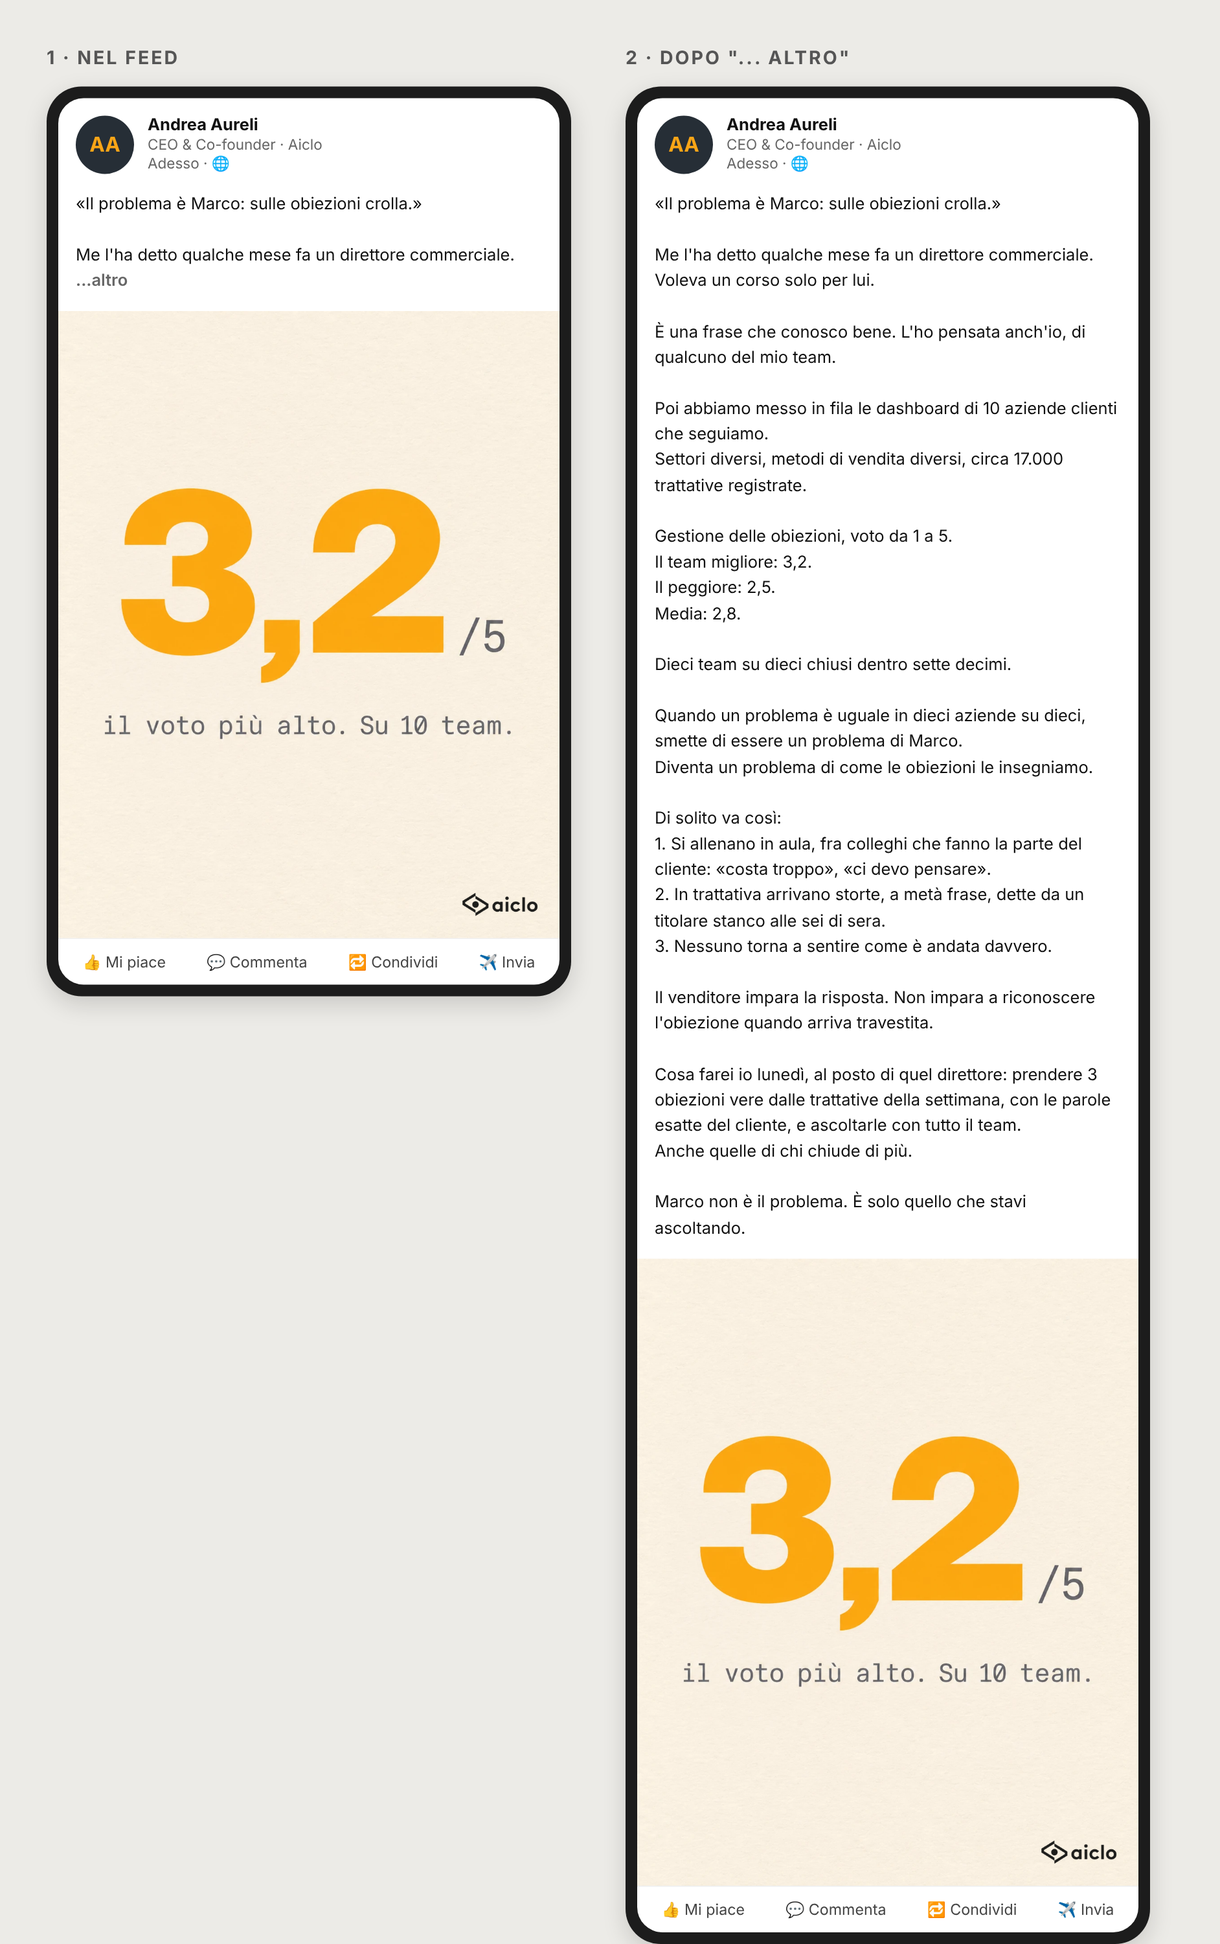
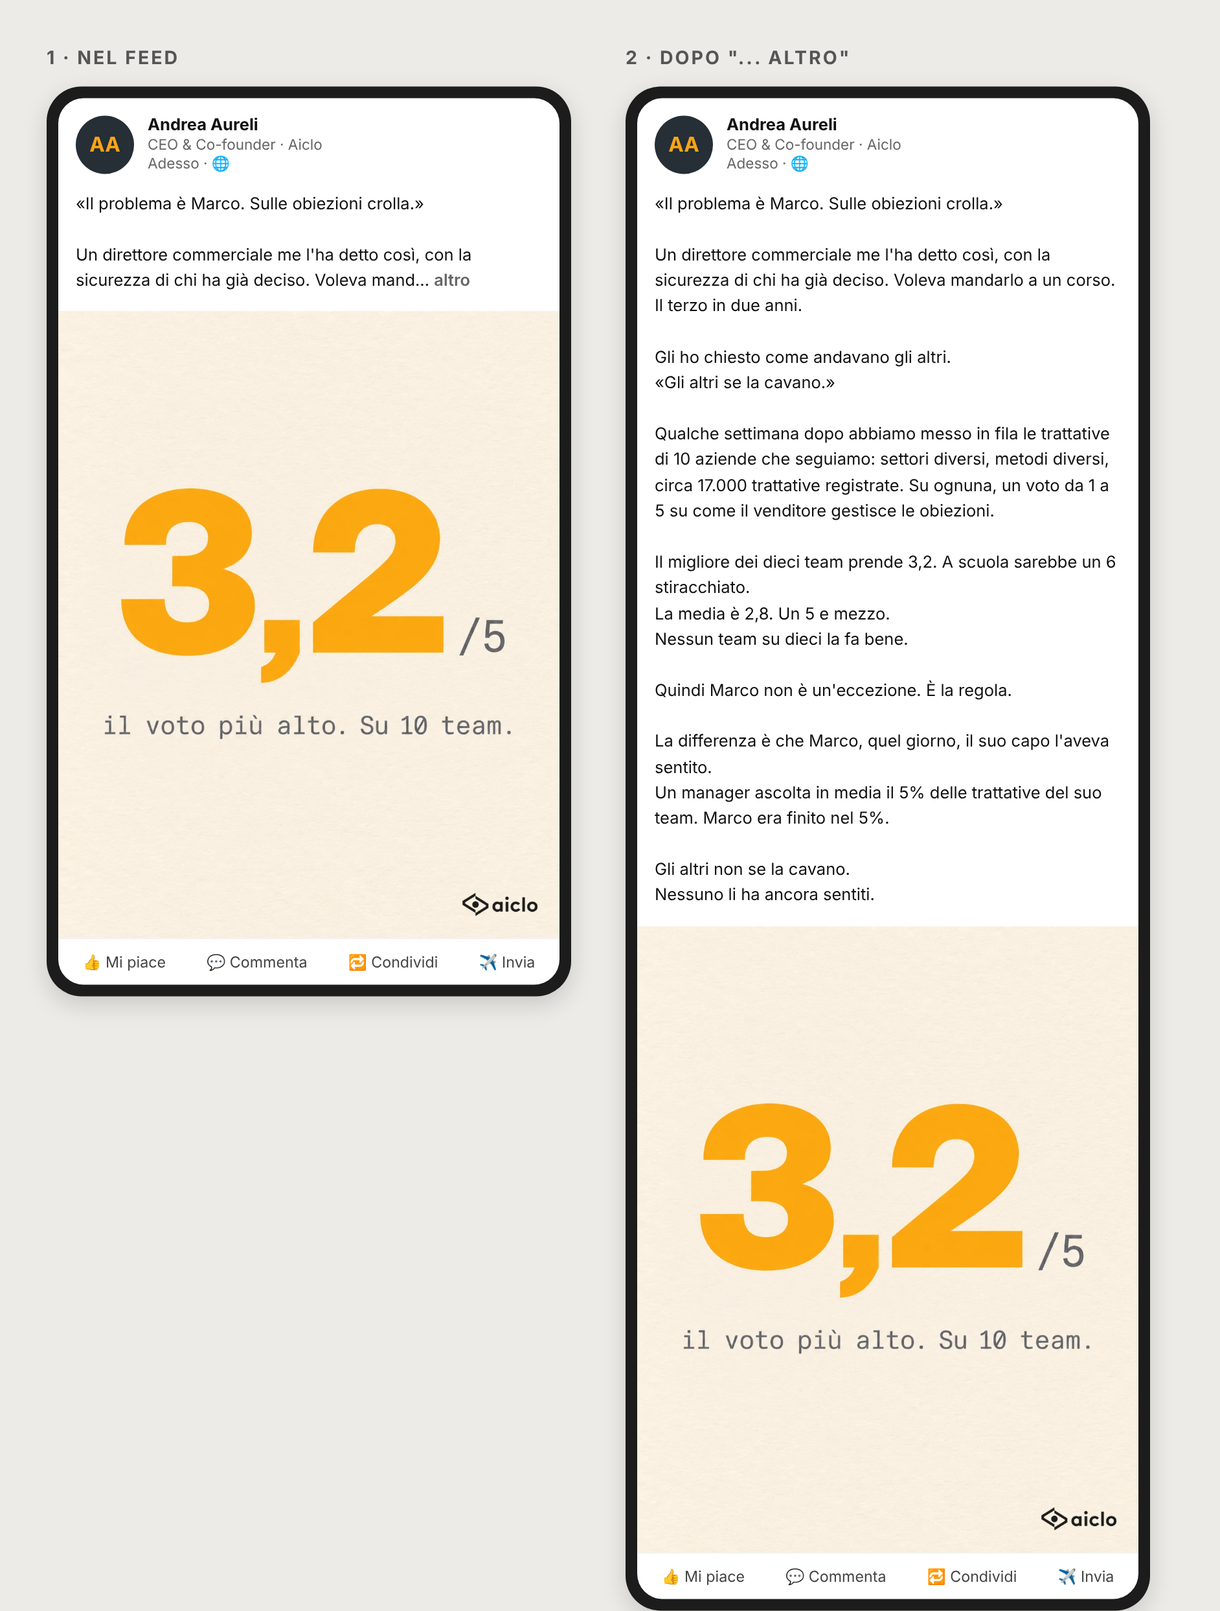
Nuovo stile di copy (guida 09) e post di Andrea riscritto
Aggiunta guide/09-stile-copy.md: anello aperto, scene con battute,
numeri tradotti, 120-200 parole, niente morale spiegata, ritmo alternato.
Allineate CLAUDE.md, 02, 05 e 08. Post di Andrea in versione 2 con anteprima.

Claude-Session: https://claude.ai/code/session_01BvwXaiV5KwnJCQtWAkwjF6

diff --git a/post/andrea-aureli/2026-11-09-obiezioni-3-2.md b/post/andrea-aureli/2026-11-09-obiezioni-3-2.md
@@ -1,49 +1,42 @@
 # Il problema è Marco: obiezioni, 10 team su 10 sotto il 3,2
 
-**Autore** — Andrea Aureli · **Brief** — Target: Manager · Leva: Soldi buttati in formazione (+ "Non sai perché") · Struttura: S1 Ribaltamento · Obiettivo: commenti
-**Fonti dati** — `dati/insight-trattative.md` riga 8 (approvata: 10 aziende clienti su 10 fra 2,5 e 3,2 sulla gestione delle obiezioni, media 2,8, circa 17.000 trattative). Il direttore commerciale e "Marco": **storia costruita**.
+**Autore** — Andrea Aureli · **Brief** — Target: Manager · Leva: "Non sai perché" (il punto cieco del 95%) · Struttura: S1 Ribaltamento · Obiettivo: commenti
+**Fonti dati** — `dati/insight-trattative.md` riga 8 (approvata: 10 aziende clienti su 10 fra 2,5 e 3,2 sulla gestione delle obiezioni, media 2,8, circa 17.000 trattative) e riga 1 (claim pubblico: un manager ascolta il 5% delle trattative). Il direttore commerciale, "Marco" e il corso: **storia costruita**. La traduzione in pagella (3,2/5 = 6,4/10; 2,8/5 = 5,6/10) è un calcolo sui dati approvati.
 
 > Scelte di calendario: è il primo post di Andrea, quindi niente da non ripetere. Target Manager perché l'ultimo post uscito (Simone, oggi) era per i venditori. Tema diverso da quello di Simone (implicazioni, righe 3, 4 e 9): qui si usa la riga 8, mai usata.
+>
+> **Versione 2**, riscritta con `guide/09-stile-copy.md`. La versione 1 (240 parole, con lista e "cosa fare lunedì") è nella cronologia git.
 
 ## Hook alternativi
 1. **Numero che fa male:** 10 aziende, 10 metodi diversi. Sulle obiezioni nessuna supera il 3,2.
-2. **Il caso che smentisce:** «Il problema è Marco: sulle obiezioni crolla.»
+2. **Il caso che smentisce:** «Il problema è Marco. Sulle obiezioni crolla.»
 3. **Criterio:** Quando un manager mi chiede un corso sulle obiezioni, faccio una domanda sola.
 
-Scelto il **n. 2**: è una frase che ogni manager ha detto o pensato, quindi ci si riconosce subito. Il lettore pensa "anch'io ho un Marco" e apre il post. Il numero arriva dopo, come prova che ribalta la frase.
+Scelto il **n. 2**: è una frase che ogni manager ha detto o pensato, quindi ci si riconosce subito.
+
+**Anello aperto:** la domanda è "ma è davvero colpa di Marco?". Si chiude solo nelle ultime due righe: Marco è solo quello che il capo ha sentito, gli altri nessuno li ha sentiti.
 
 ## Post
-«Il problema è Marco: sulle obiezioni crolla.»
+«Il problema è Marco. Sulle obiezioni crolla.»
 
-Me l'ha detto qualche mese fa un direttore commerciale.
-Voleva un corso solo per lui.
+Un direttore commerciale me l'ha detto così, con la sicurezza di chi ha già deciso. Voleva mandarlo a un corso. Il terzo in due anni.
 
-È una frase che conosco bene. L'ho pensata anch'io, di qualcuno del mio team.
+Gli ho chiesto come andavano gli altri.
+«Gli altri se la cavano.»
 
-Poi abbiamo messo in fila le dashboard di 10 aziende clienti che seguiamo.
-Settori diversi, metodi di vendita diversi, circa 17.000 trattative registrate.
+Qualche settimana dopo abbiamo messo in fila le trattative di 10 aziende che seguiamo: settori diversi, metodi diversi, circa 17.000 trattative registrate. Su ognuna, un voto da 1 a 5 su come il venditore gestisce le obiezioni.
 
-Gestione delle obiezioni, voto da 1 a 5.
-Il team migliore: 3,2.
-Il peggiore: 2,5.
-Media: 2,8.
+Il migliore dei dieci team prende 3,2. A scuola sarebbe un 6 stiracchiato.
+La media è 2,8. Un 5 e mezzo.
+Nessun team su dieci la fa bene.
 
-Dieci team su dieci chiusi dentro sette decimi.
+Quindi Marco non è un'eccezione. È la regola.
 
-Quando un problema è uguale in dieci aziende su dieci, smette di essere un problema di Marco.
-Diventa un problema di come le obiezioni le insegniamo.
+La differenza è che Marco, quel giorno, il suo capo l'aveva sentito.
+Un manager ascolta in media il 5% delle trattative del suo team. Marco era finito nel 5%.
 
-Di solito va così:
-1. Si allenano in aula, fra colleghi che fanno la parte del cliente: «costa troppo», «ci devo pensare».
-2. In trattativa arrivano storte, a metà frase, dette da un titolare stanco alle sei di sera.
-3. Nessuno torna a sentire come è andata davvero.
-
-Il venditore impara la risposta. Non impara a riconoscere l'obiezione quando arriva travestita.
-
-Cosa farei io lunedì, al posto di quel direttore: prendere 3 obiezioni vere dalle trattative della settimana, con le parole esatte del cliente, e ascoltarle con tutto il team.
-Anche quelle di chi chiude di più.
-
-Marco non è il problema. È solo quello che stavi ascoltando.
+Gli altri non se la cavano.
+Nessuno li ha ancora sentiti.
 
 ## Visual
 Tipo: numero gigante (Template H)
@@ -78,19 +71,21 @@ Note per la grafica:
 Manager: qual è l'obiezione che senti di più nelle trattative del tuo team? Scrivila con le parole esatte del cliente, non con quelle del manuale.
 
 ## Checklist
-**17/17**
-- ✅ Prima riga di 8 parole: una frase vera da manager, una scena che funziona da sola.
-- ✅ Una sola idea: le obiezioni sono un problema di come si insegnano, non di un venditore.
+**19/19**
+- ✅ Prima riga di 7 parole: una frase vera da manager, che funziona da sola.
+- ✅ Anello aperto ("è davvero colpa di Marco?") chiuso solo nelle ultime due righe.
+- ✅ Una sola idea: il problema che vedi è quello che senti; il resto è nel punto cieco.
 - ✅ Nemico: la credenza "è colpa di quel venditore, mandiamolo a un corso".
-- ✅ Numeri reali e approvati (riga 8): 10 su 10, 3,2, 2,5, 2,8, 17.000. Citati come "aziende clienti che seguiamo", senza nomi né settori.
-- ✅ Storia costruita (il direttore, Marco) anonima, verosimile e segnalata nelle Fonti dati.
-- ✅ Target manager chiaro dalla prima riga; leve: formazione che non arriva in trattativa, "non sai perché" (il 5% che si ascolta, richiamato in chiusura).
-- ✅ Circa 240 parole, paragrafi brevi, elenco numerato di 3 voci, zero emoji, nessuna parola vietata, nessun link.
-- ✅ Chiusura in una frase, citabile, che riprende l'apertura.
+- ✅ Numeri reali e approvati (righe 8 e 1), tradotti in pagella. Citati come "aziende che seguiamo", senza nomi né settori.
+- ✅ Storia costruita (il direttore, Marco, il corso) anonima, verosimile e segnalata nelle Fonti dati.
+- ✅ Target manager chiaro dalla prima riga; leva "Non sai perché".
+- ✅ Circa 165 parole, nessuna lista, nessuna morale spiegata, nessun "cosa fare lunedì".
+- ✅ Zero emoji, nessuna parola vietata, nessun trattino lungo, nessun link.
+- ✅ Chiusura in due righe brevi, citabile, che risponde all'apertura ("gli altri se la cavano").
 - ✅ Aiclo non nominato.
-- ✅ L'errore è condiviso dall'autore ("l'ho pensata anch'io", "come le insegniamo"); nessun attacco ai formatori o ai venditori. Due contrapposizioni ("Il venditore impara la risposta. Non impara…" e la chiusura).
-- ✅ Voce di Andrea: riflessiva, da imprenditore che ragiona sui numeri aggregati, diretta senza prediche.
+- ✅ Punge un'abitudine (dare la colpa a chi si è sentito), non una persona. Due contrapposizioni in tutto.
+- ✅ I 4 test del file `09`: nessun paragrafo si può togliere senza perdere un pezzo della storia.
+- ✅ Voce di Andrea: da imprenditore che ragiona sui numeri, diretto senza prediche.
 
 Da verificare con Andrea prima di pubblicare:
 - La scena del direttore commerciale è costruita: se ne ha una vera simile, meglio la sua.
-- "L'ho pensata anch'io, di qualcuno del mio team": va bene solo se è vero per lui (il gruppo gestisce 100+ venditori, è molto probabile). Se no, togliere la riga.

diff --git a/guide/09-stile-copy.md b/guide/09-stile-copy.md
@@ -1,0 +1,80 @@
+# 09 — Lo stile: post che si leggono fino in fondo
+
+> Questo file viene **prima** degli altri. Le strutture (file `02`) dicono cosa mettere nel post. Questo file dice come scriverlo perché qualcuno lo legga. Se una regola degli altri file rende il post più noioso, vince questo file.
+
+## Perché i primi post annoiavano
+L'abbiamo visto sul primo post di Andrea (versione 1, nella cronologia git di `post/andrea-aureli/2026-11-09-obiezioni-3-2.md`). Anche chi aveva tempo e interesse a metà mollava. Le cause:
+
+1. **Si vedeva lo scheletro.** "Di solito va così: 1, 2, 3", "Cosa farei io lunedì", la morale. Era una S1 compilata casella per casella, e il lettore riconosce il modulo prima ancora di leggerlo.
+2. **Spiegavamo la morale.** Il post arrivava alla conclusione e poi la spiegava ancora. Al lettore non restava niente da capire da solo, e quindi niente da commentare.
+3. **I numeri erano da report.** "Gestione delle obiezioni 2,8 su 5" non fa male a nessuno finché non diventa "un 5 e mezzo in pagella".
+4. **Il ritmo era da telegramma.** Ogni frase andava a capo ed erano tutte lunghe uguali. Dopo dieci righe diventa una cantilena.
+5. **C'era troppa roba.** Un caso, i dati, una spiegazione, una lista, un consiglio, una morale: sono sei pezzi per un'idea sola.
+6. **Era prudente.** Pensavamo tanto a non offendere nessuno che il post non pungeva più.
+
+## Le 7 regole
+
+### 1. Un anello aperto, chiuso solo alla fine
+La prima riga apre una domanda ("perché Marco?", "cosa c'è di male a farsi voler bene?"). L'ultima la chiude. Se la risposta arriva a metà, il lettore ha finito di leggere a metà.
+Prima di scrivere, rispondi a due domande: **qual è la domanda che apro? In quale riga la chiudo?**
+
+### 2. Scene, non concetti
+Mettici persone che parlano, con battute tra « ». Ci vuole almeno una battuta vera o verosimile, come la direbbe un direttore commerciale alle sei di sera. "Gli altri se la cavano" vale più di un paragrafo sulla formazione.
+
+### 3. Un numero, tradotto
+Bastano uno o due numeri, ma ognuno va **tradotto** in qualcosa che si sente: un voto a scuola, euro, ore, "uno su tre", "il migliore dei dieci".
+- ❌ "Gestione delle obiezioni: 2,8 su 5."
+- ✅ "La media è 2,8 su 5. In pagella sarebbe un 5 e mezzo."
+
+### 4. Corto: 120-200 parole
+Scrivi la prima versione, poi **togli il 30%**. Ogni frase deve far venire voglia di leggere quella dopo: se non lo fa, si taglia. Si superano le 200 parole solo per una storia che regge fino in fondo, e mai oltre le 250.
+
+### 5. La morale la trova il lettore
+Non si spiega la conclusione e non si chiude con il riassunto. Il "cosa fare da domani" si mette solo nella S6 (formula) o quando è una frase sola e concreta. Se il lettore arriva da solo alla conclusione, la sente sua e la commenta.
+
+### 6. Il ritmo si alterna
+Una frase lunga, poi una corta. Due o tre frasi per paragrafo vanno bene. Una riga da sola si usa solo per i colpi, al massimo 3 o 4 per post: se sono tutte colpi, non lo è nessuna.
+
+### 7. Si punge
+Una cosa scomoda si dice in modo netto. Il limite resta quello del file `05`: si colpisce un'idea, mai una persona. Ma la prudenza non deve togliere il colpo. "Il problema non è Marco" è un'opinione; "nessun team su dieci la fa bene" è un fatto che punge.
+
+## I tic che fanno mollare (vietati)
+- Le intestazioni da slide nel testo: "Di solito va così:", "Tradotto:", "Il punto è questo:", "Cosa fare da domani:", "Ecco cosa ho imparato".
+- Le liste numerate fuori dalla S6.
+- L'ultima frase che riassume il post.
+- "Non è X. È Y." più di una volta nel post.
+- Tre domande retoriche di fila.
+- Il trattino lungo (—) nel testo del post: è il primo segnale di un testo scritto da un'AI.
+- Spiegare la battuta dopo averla fatta.
+
+## I 4 test (si fanno sempre, dopo la checklist)
+1. **Test della noia** (il più importante). Rileggi il post come chi ha 20 secondi e l'ha aperto per sbaglio. Il punto in cui smetteresti va tagliato o reso più forte.
+2. **Test del taglio.** Togli ogni paragrafo, uno alla volta. Se il post non perde niente, quel paragrafo resta fuori.
+3. **Test dello scivolo.** Leggi solo la prima riga di ogni paragrafo. Se capisci già tutto, il resto è riempitivo.
+4. **Test del bar.** Lo racconteresti così, a voce, a un collega? Se a voce lo diresti in modo diverso, scrivilo come lo diresti.
+
+## Prima e dopo (il post di Andrea)
+
+**Prima** (la parte centrale):
+> Gestione delle obiezioni, voto da 1 a 5.
+> Il team migliore: 3,2.
+> Il peggiore: 2,5.
+> Media: 2,8.
+>
+> Dieci team su dieci chiusi dentro sette decimi.
+>
+> Quando un problema è uguale in dieci aziende su dieci, smette di essere un problema di Marco.
+> Diventa un problema di come le obiezioni le insegniamo.
+>
+> Di solito va così:
+> 1. Si allenano in aula…
+
+**Dopo:**
+> Il migliore dei dieci team prende 3,2 su 5. A scuola sarebbe un 6 stiracchiato.
+> La media è 2,8. Un 5 e mezzo.
+>
+> Quindi Marco non è un'eccezione. È la regola.
+>
+> La differenza è che Marco, quel giorno, il suo capo l'aveva sentito.
+
+Cosa cambia: c'è un numero solo, tradotto in pagella. Non c'è più la lista e la morale non viene spiegata. La domanda "perché proprio Marco?" si chiude solo nell'ultima riga.

diff --git a/guide/02-anatomia-post-vincente.md b/guide/02-anatomia-post-vincente.md
@@ -7,15 +7,17 @@ Questa è la sintesi delle peculiarità del file `01`. Ogni post generato deve r
 1. **Una scena, un numero o un'accusa nella prima riga.** Massimo 12-15 parole. Deve funzionare anche da sola, prima del "…altro".
 2. **Un nemico.** Una credenza sbagliata, un'abitudine stupida, uno status quo. Mai un concorrente con nome e cognome, mai il cliente.
 3. **Pelle in gioco.** Prima persona singolare, da qualcuno che ha visto le trattative. "Ho ascoltato", "abbiamo analizzato", "un direttore commerciale mi ha detto".
-4. **Un numero verificabile ogni 80-100 parole.** Numeri dispari e precisi (37%, 4 su 11, 2 minuti) battono quelli tondi.
+4. **Uno o due numeri, tradotti.** Numeri dispari e precisi (37%, 4 su 11, 2 minuti) battono quelli tondi, ma ognuno va tradotto in qualcosa che si sente (un voto in pagella, euro, ore). Meglio un numero tradotto che quattro in fila (file `09`).
 5. **Un'idea sola.** Se servono due idee, servono due post.
 6. **Dare un nome alla cosa.** Un concetto ripetibile ("il punto cieco del 95%", "il venditore-fantasma", "la trattativa del giovedì").
-7. **Prosa breve, a capo spesso.** Righe di 1-2 frasi. Niente muri di testo, niente elenchi pieni di emoji. Liste solo se numerate e brevi (3-5 voci).
-8. **150-300 parole.** Sotto i 100 solo per i meme o le provocazioni secche.
+7. **Prosa breve, ritmo che si alterna.** Paragrafi di 1-3 frasi, una frase lunga e una corta. La riga da sola solo per i colpi. Niente muri di testo, niente elenchi: le liste numerate solo nella S6.
+8. **120-200 parole** (massimo 250 per una storia che regge). Si scrive, poi si taglia il 30%. Sotto i 100 solo per i meme o le provocazioni secche.
 9. **Chiusura in una frase.** Si deve poter citare. Niente "Cosa ne pensate? 👇", a meno che la domanda non sia specifica e divisiva (vedi file `06`).
 10. **Il prodotto, al massimo, è una comparsa.** L'obiettivo è solo l'engagement: in 7 post su 8 Aiclo non si nomina. Nell'ottavo si nomina **una volta**, come contesto ("nelle trattative che analizziamo") o dentro una storia.
 
 ## Le 6 strutture (template astratti)
+
+> Le strutture servono per **pensare** il post, non per scriverlo: se il lettore riconosce le caselle, il post è noioso. I passaggi "cosa fare invece" e "cosa fare da domani" sono facoltativi (obbligatori solo nella S6) e la frase finale non riassume: chiude la domanda aperta nella prima riga. Vedi il file `09`.
 
 ### S1 — Il ribaltamento (cat. A)
 ```

diff --git a/guide/08-checklist-qualita.md b/guide/08-checklist-qualita.md
@@ -1,22 +1,24 @@
 # 08 — Checklist prima di pubblicare
 
-Un post si pubblica solo con **almeno 15 sì su 17**, e i punti contrassegnati con ⛔ sono obbligatori.
+Un post si pubblica solo con **almeno 17 sì su 19**, e i punti contrassegnati con ⛔ sono obbligatori.
 
 ## Gancio
 - [ ] La prima riga sta sotto le 15 parole ed è una scena, un numero o un'accusa.
 - [ ] Letta da sola, la prima riga fa venire voglia di cliccare "…altro".
+- [ ] La prima riga apre una domanda che si chiude solo alla fine (anello aperto, file `09`).
 
 ## Contenuto
 - [ ] ⛔ Il post contiene **una sola idea**.
 - [ ] C'è un nemico chiaro: una credenza, un'abitudine o uno status quo.
-- [ ] C'è almeno un numero o un dettaglio concreto ogni 100 parole.
+- [ ] C'è almeno una scena con una battuta tra « », e ogni numero è tradotto in qualcosa che si sente (pagella, euro, ore).
 - [ ] ⛔ I numeri attribuiti all'analisi di Aiclo sono reali (claim del file `03` o righe approvate in `dati/`); quelli costruiti sono presentati come esperienza o esempio e segnalati come `numero costruito`.
 - [ ] ⛔ Le storie costruite sono verosimili e anonime (nessuna azienda o persona reale con il nome) e sono segnalate come `storia costruita` nelle Fonti dati.
 - [ ] Il target (manager o venditore) è chiaro dalle prime 3 righe.
 - [ ] Tocca almeno una leva della mappa dell'empatia (file `04`).
 
 ## Forma
-- [ ] 150-300 parole (salvo meme o provocazioni).
+- [ ] 120-200 parole (massimo 250 per una storia che regge), dopo aver tagliato il 30%.
+- [ ] Nessuna morale spiegata, nessuna lista fuori dalla S6, nessun tic del file `09` ("Di solito va così:", "Tradotto:", riassunto finale, trattino lungo).
 - [ ] Paragrafi di 1-3 righe, nessun muro di testo.
 - [ ] Zero o una emoji, niente parole vietate (file `05`).
 - [ ] Nessun link nel corpo del post.
@@ -36,6 +38,7 @@ Un post si pubblica solo con **almeno 15 sì su 17**, e i punti contrassegnati c
 - [ ] Non è il terzo post di fila con lo stesso tipo di visual.
 
 ## Test finali
+- **I 4 test del file `09`:** noia, taglio, scivolo, bar. Il test della noia è il più importante.
 - **Test WhatsApp:** un venditore lo girerebbe a un collega?
 - **Test del titolare:** un manager lo metterebbe nella chat del team dicendo "leggete qua"?
 - **Test pubblicità:** se togli il nome Aiclo, il post vale ancora? Se no, riscrivi.

diff --git a/CLAUDE.md b/CLAUDE.md
@@ -5,6 +5,7 @@ Questa repository è una **macchina per scrivere post LinkedIn** che escono dai 
 **Obiettivo unico: engagement** (reazioni, commenti, condivisioni). Non si vendono demo. Il post deve valere anche per chi non comprerà mai Aiclo.
 
 ## Prima di scrivere, leggi
+0. `guide/09-stile-copy.md`: come si scrive un post che si legge fino in fondo **(obbligatorio; se un'altra regola rende il post più noioso, vince questo file)**
 1. `post/<autore>/profilo.md` (e `post-pubblicati.md`, se c'è): chi firma il post, la sua voce, i suoi temi **(obbligatorio)**
 2. `guide/02-anatomia-post-vincente.md`: le 10 leggi e le 6 strutture **(obbligatorio)**
 3. `guide/04-mappa-empatia.md`: a chi parli e quale nervo tocchi **(obbligatorio)**
@@ -24,8 +25,8 @@ Questa repository è una **macchina per scrivere post LinkedIn** che escono dai 
    - Obiettivo: commenti | condivisioni | salvataggi
    - Materiale reale: insight, episodio o cliente dalla cartella `dati/`
 3. **Scrivi 3 hook alternativi** con meccanismi diversi e scegli il migliore.
-4. **Scrivi il post** con la struttura scelta e la voce dell'autore.
-5. **Passa la checklist** di `guide/08-checklist-qualita.md` e correggi.
+4. **Scrivi il post** con la struttura scelta e la voce dell'autore, seguendo il file `09`: prima decidi la domanda che apri nella prima riga e la riga in cui la chiudi. La struttura serve per pensare, non si compila casella per casella.
+5. **Taglia il 30%**, poi passa la checklist di `guide/08-checklist-qualita.md` e i 4 test del file `09` (noia, taglio, scivolo, bar). Correggi.
 6. **Decidi il visual** con la tabella del file `07` e rispetta **le 12 regole per una visual che ferma lo scroll** (stesso file). Se serve, scrivi il prompt completo partendo dal template e usando i colori del brand. Alterna i tipi: mai tre post di fila con la stessa card scura.
 7. **Salva** in `post/<autore>/AAAA-MM-GG-slug.md`.
 
@@ -57,7 +58,7 @@ Anomalia: [cosa c'è di storto o di strano che ferma il pollice, in una riga]
 …
 
 ## Checklist
-[punteggio x/15 e i punti mancati]
+[punteggio x/19 e i punti mancati]
 ```
 
 ## Regole non negoziabili

diff --git a/guide/05-tono-di-voce.md b/guide/05-tono-di-voce.md
@@ -54,7 +54,8 @@ rivoluzionario, game changer, nel panorama odierno, in un mondo in cui, sfida, v
 - Emoji: zero o una. Mai in apertura.
 - Hashtag: zero, oppure massimo 3 in fondo.
 - Link esterni: mai nel corpo del post (LinkedIn li penalizza). Se servono, nel primo commento.
-- Lunghezza: 150-300 parole (vedi file `02`).
+- Lunghezza: 120-200 parole, massimo 250 (vedi il file `09`).
+- Niente trattino lungo (—) nel testo del post.
 
 ## Lingua
 Italiano, per il mercato italiano. Se serve una versione inglese, si scrive da zero e non si traduce.
